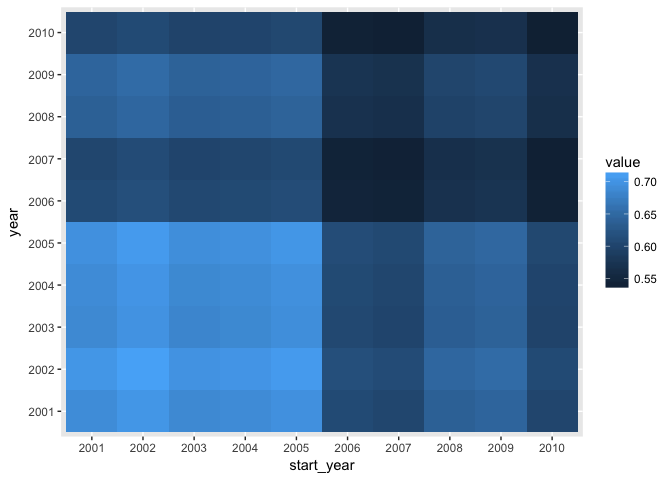
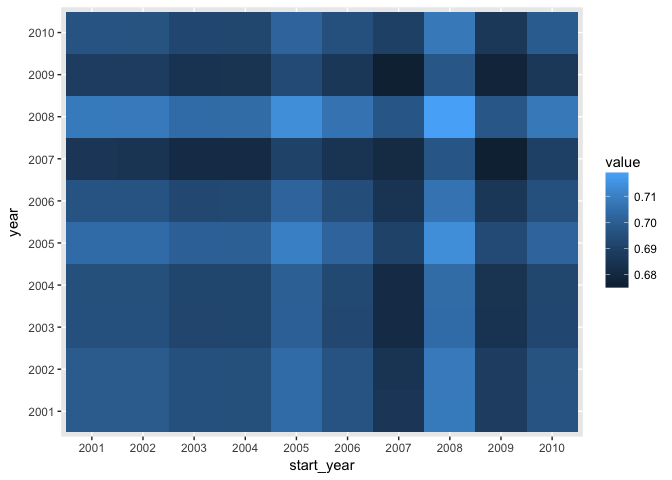
change module count, keep ave degree constant ...
Resulting graphs are quite different, but notice the graph kernel does not show much of a sharp shift under these circumstances.  @ryneches does that make sense to you?  Maybe need a different kernel?

diff --git a/hedgerow.md b/hedgerow.md
@@ -76,83 +76,84 @@ as.data.frame(output) %>%
 # Simulated Data
 
 ``` r
-time <- c(rep(10,5), rep(20, 5))
+time <- c(rep(20,5), rep(60, 5))
 graphs <- lapply(time, function(i){ 
         
-        netgen(n_modav = c(250, 25), 
-                  cutoffs = c(30, 10), 
+        netgen(n_modav = c(250, i+10), 
+                  cutoffs = c(i, 10), 
                   net_type = 41, # bi-partite nested
-                  net_degree = i,
+                  net_degree = 10,
                   net_rewire = c(0.01,0.1))
 })
 ```
 
     ## 
     ## module count = 5 
-    ## average degree = 8.6 
-    ## average module size = 50 
-    ## number of components = 3 
-    ## size of largest component = 209
-
-    ## 
-    ## module count = 5 
-    ## average degree = 7.82 
+    ## average degree = 8.416 
     ## average module size = 50 
     ## number of components = 1 
     ## size of largest component = 250
 
     ## 
     ## module count = 5 
-    ## average degree = 8.9 
+    ## average degree = 8.352 
     ## average module size = 50 
     ## number of components = 2 
-    ## size of largest component = 217
-
-    ## 
-    ## module count = 5 
-    ## average degree = 8.704 
-    ## average module size = 50 
-    ## number of components = 1 
-    ## size of largest component = 250
-
-    ## 
-    ## module count = 5 
-    ## average degree = 8.188 
-    ## average module size = 50 
-    ## number of components = 1 
-    ## size of largest component = 250
-
-    ## 
-    ## module count = 4 
-    ## average degree = 15.48 
-    ## average module size = 62.5 
-    ## number of components = 1 
-    ## size of largest component = 250
-    ## 
-    ## module count = 4 
-    ## average degree = 15.48 
-    ## average module size = 62.5 
-    ## number of components = 1 
-    ## size of largest component = 250
+    ## size of largest component = 229
 
     ## 
     ## module count = 6 
-    ## average degree = 12.368 
+    ## average degree = 8.508 
     ## average module size = 41.6666666666667 
     ## number of components = 1 
     ## size of largest component = 250
 
     ## 
     ## module count = 6 
-    ## average degree = 11.992 
+    ## average degree = 8.496 
     ## average module size = 41.6666666666667 
+    ## number of components = 2 
+    ## size of largest component = 222
+
+    ## 
+    ## module count = 7 
+    ## average degree = 7.864 
+    ## average module size = 35.7142857142857 
+    ## number of components = 3 
+    ## size of largest component = 204
+
+    ## 
+    ## module count = 2 
+    ## average degree = 9.064 
+    ## average module size = 125 
     ## number of components = 1 
     ## size of largest component = 250
 
     ## 
-    ## module count = 4 
-    ## average degree = 15.7 
-    ## average module size = 62.5 
+    ## module count = 1 
+    ## average degree = 11.512 
+    ## average module size = 250 
+    ## number of components = 1 
+    ## size of largest component = 250
+
+    ## 
+    ## module count = 2 
+    ## average degree = 8.116 
+    ## average module size = 125 
+    ## number of components = 1 
+    ## size of largest component = 250
+
+    ## 
+    ## module count = 3 
+    ## average degree = 9.52 
+    ## average module size = 83.3333333333333 
+    ## number of components = 1 
+    ## size of largest component = 250
+
+    ## 
+    ## module count = 1 
+    ## average degree = 10.164 
+    ## average module size = 250 
     ## number of components = 1 
     ## size of largest component = 250
 
